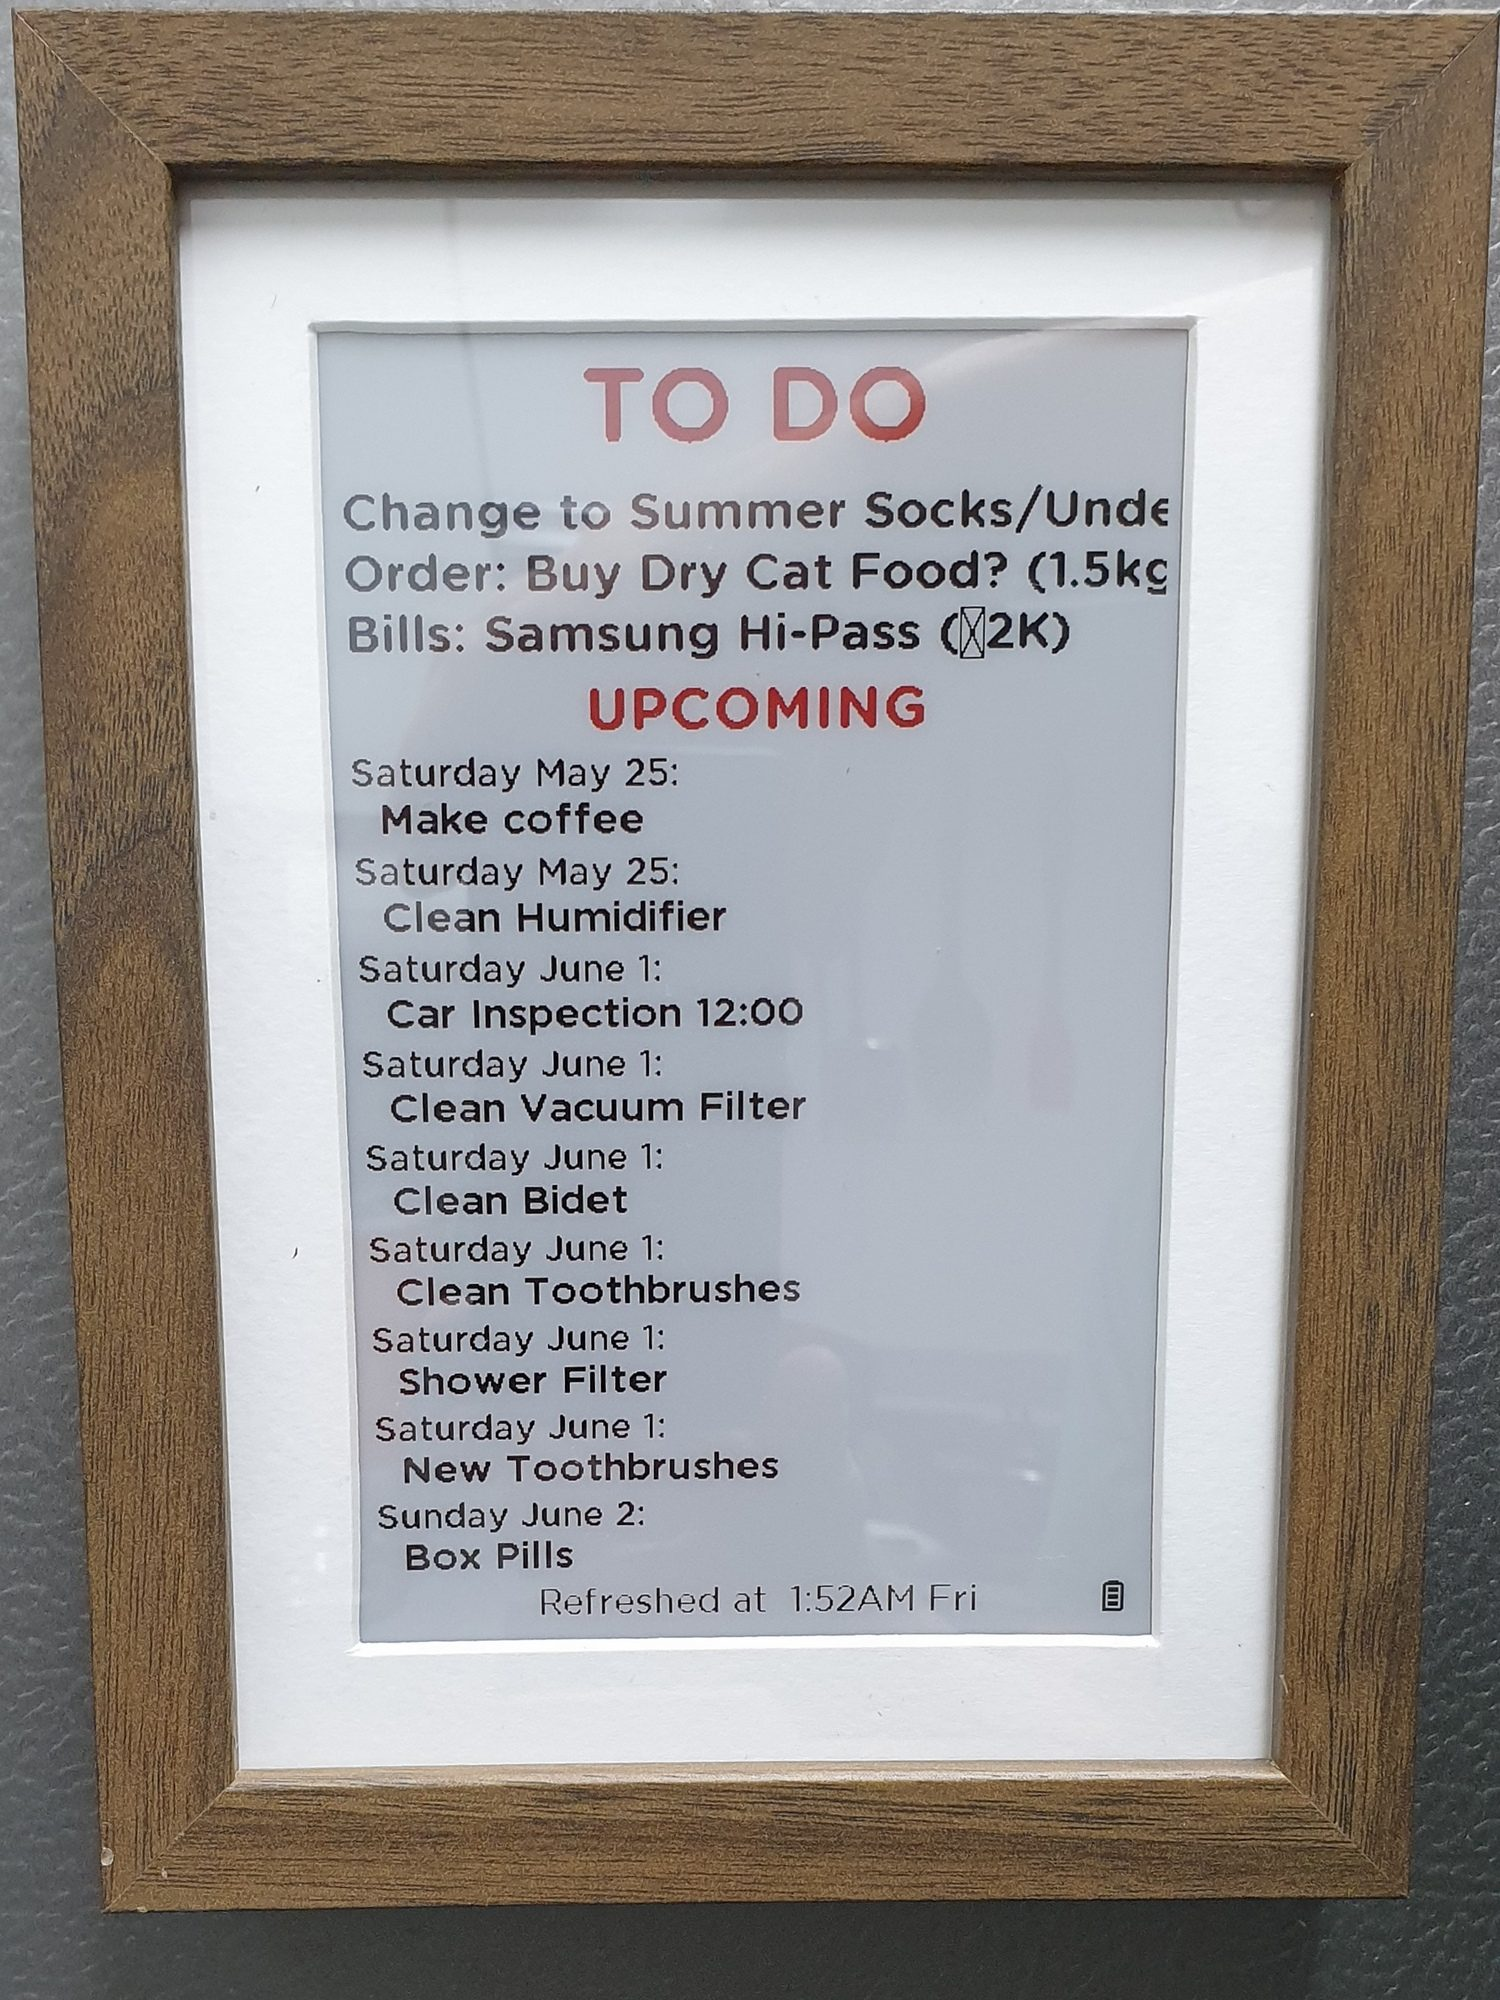
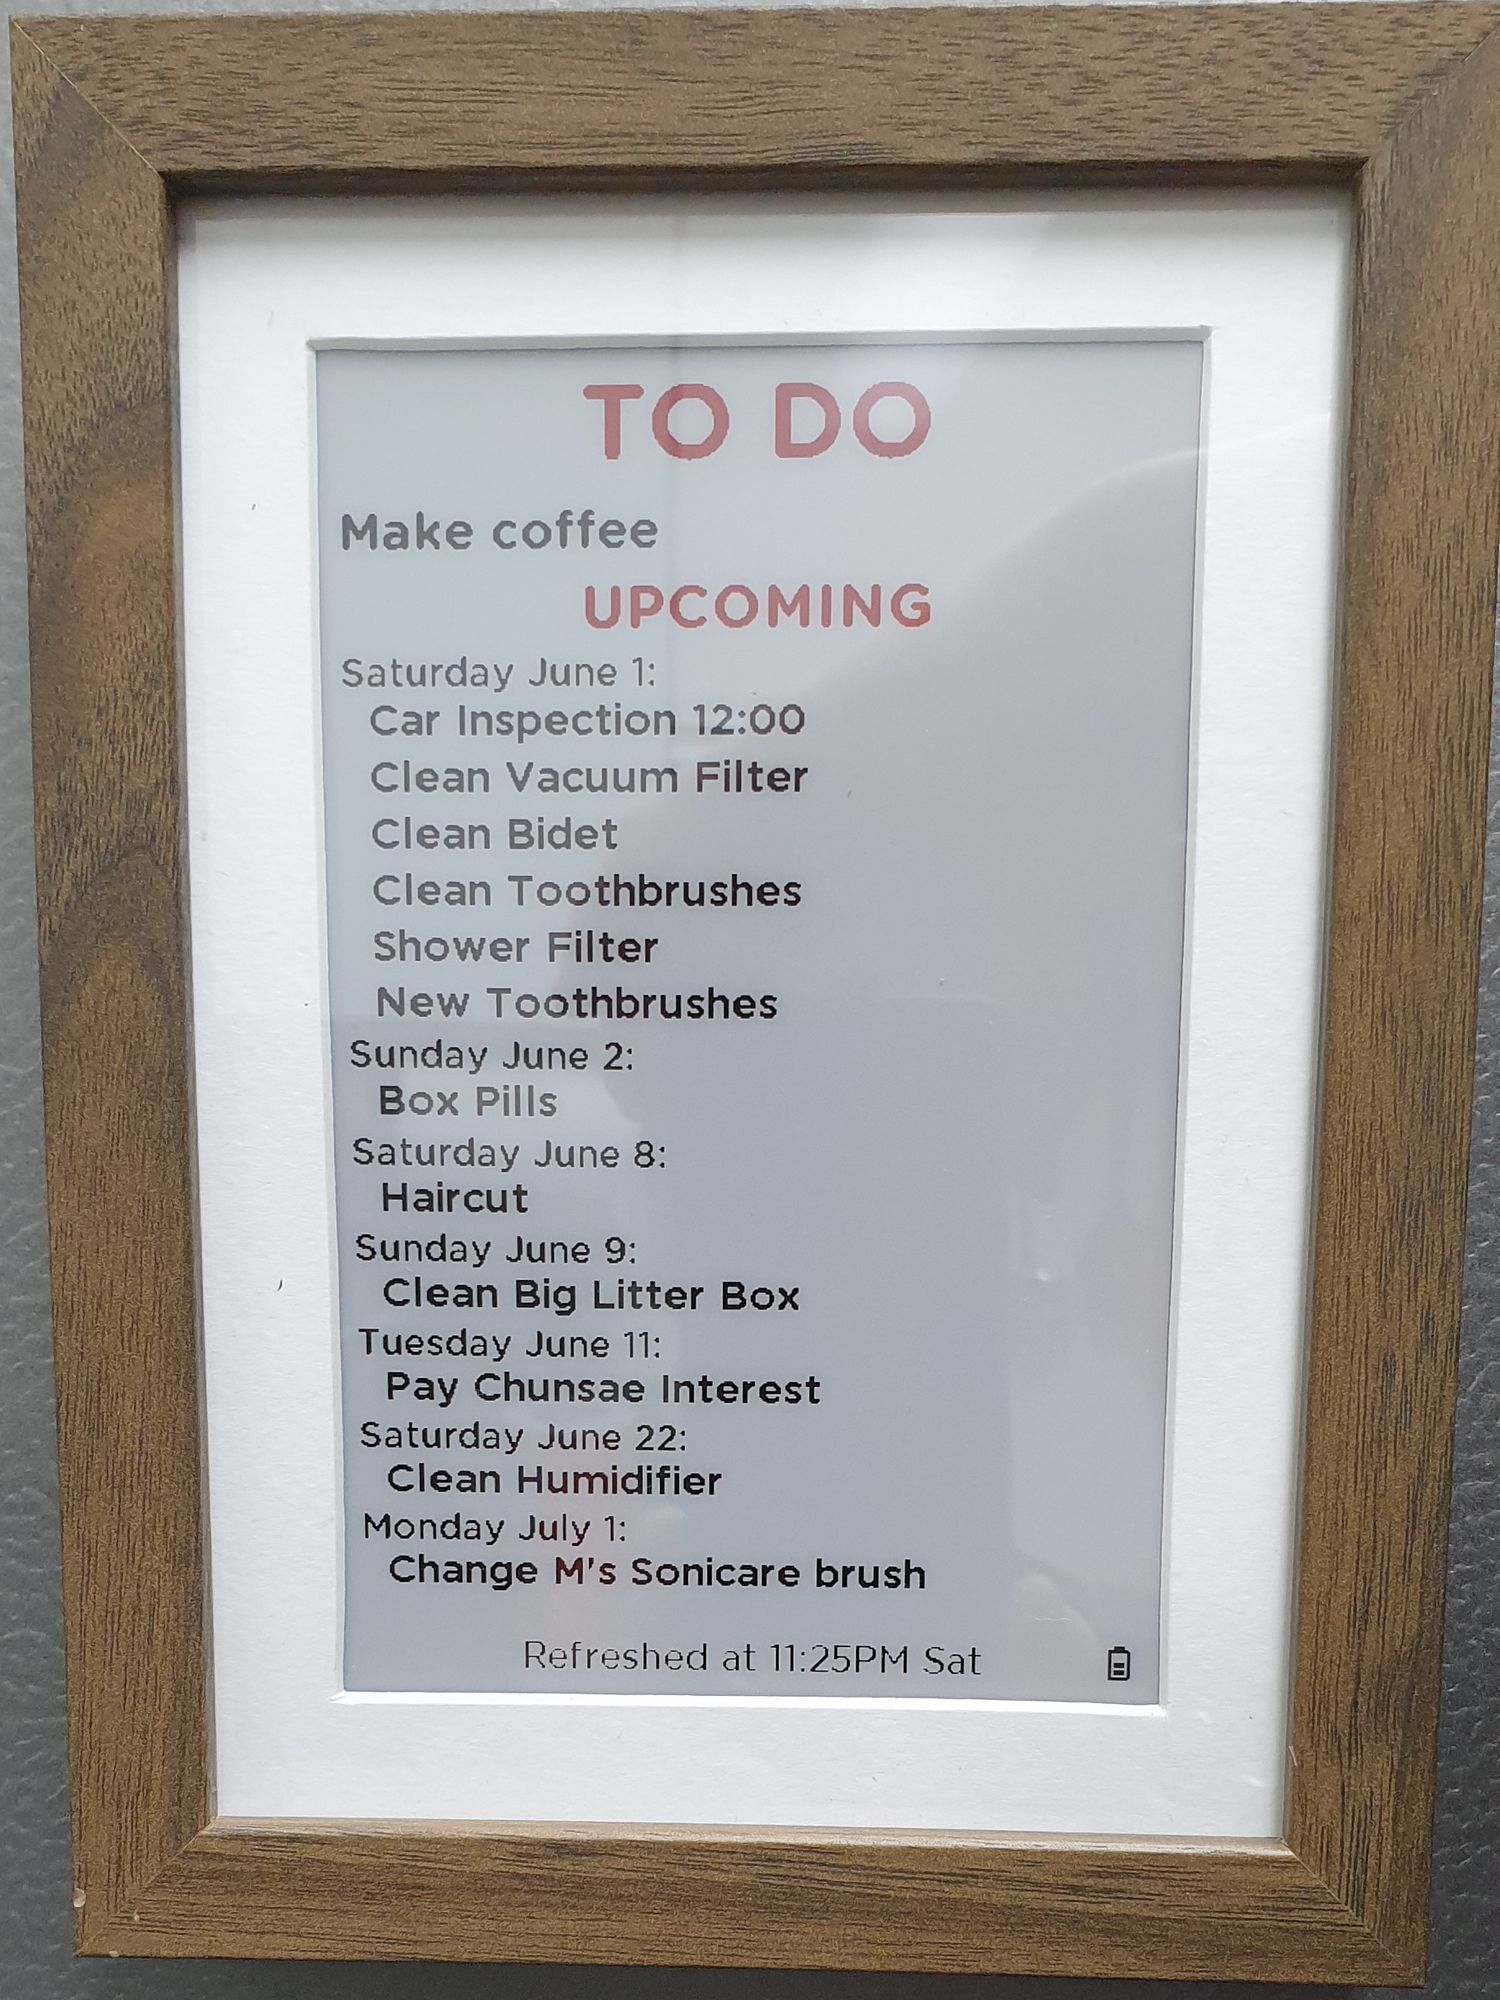
Combine tasks under one date

diff --git a/README.md b/README.md
@@ -38,6 +38,10 @@ Unlike the WeatherBoard code, you will need to carefully edit certain sections o
 
 Certain events like holidays (which are pulled from a calendar), I wish only to appear on the top TO DO and never in UPCOMING, while other things will appear in UPCOMING but never in TO DO.  Some things are pulled from certain to do lists and you may wish the board to indicate which list it's from (ie. "Check Oil" on the "Car Tasks" list may appear as "Car: Check Oil" on the board).
 
+Please note my preferred `time_pattern` is every 3 minutes.  It takes 2 runs to completely populate all the sensors.  That means 6 minutes total.  Keep that in mind if you decide to increase the value.  Also, although it's not too intensive on the machine, it certainly isn't no work at all, so if your machine is weak (like a Pi), you may wish to increase the time.
+
+Also, keep in mind that Home Assistant reloads Google Tasks and Calendar data every 15 minutes so in theory it could take 29 minutes for items to sync to HA. You can reload them manually with the service `homeassistant.reload_config_entry` if needed.
+
 [`HomeAssistant_template_tasks.yaml`](HomeAssistant_template_tasks.yaml)
 
 #### Waketimes
@@ -79,7 +83,7 @@ Because the YAML has plenty of notes scattered throughout it, I won't waste spac
 
 A note here that the list is somewhat dynamic.  As more TO DO tasks are displayed, the UPCOMING list is pushed further down and will not attempt to display items that do not fit.  If no TO DO items are available, it will have a default "Nothing today!" message that you may wish to edit.  Again, there are plenty of notes scattered throughout the YAML so check it carefully.
 
-Please note that as you can see in my above example, I have an unknown character appear. I live in Korea and that should be a Korean Won symbol (₩).  It is not displayed correctly because it does not exist in the font.  There's nothing to do about this without changing the font to one which supports this character.  It's ugly but shouldn't happen often.  ESPHome is also limited by Pillow on how many glyphs may be included (undocumented but I believe it's 255) so there's almost no chance of using Asian languages here.
+Please note that you may see a missing glyph (always a black box ■) on your board.  The solution is quite simple.  Add the character to the glyphs lists in the ESPHome YAML.  If you see an unknown character glyph (in the Gotham-Round fonts similar as ☒) instead, it means the font is missing that character. The solution is to either change the font, avoid using the character, or ignore it. For example, I have defined the South Korean Won currency symbol (₩) even though it is not present in the font. I'd rather see the ☒ instead of ■. Please note that I'm pretty sure Pillow (the element of ESPHome uses to encode characters into pictures) limits the number of glyphs. I believe it's 255.
 
 [`ESPHome_eink-tasksboard.yaml`](ESPHome_eink-tasksboard.yaml)
 
@@ -97,6 +101,7 @@ Please note that as you can see in my above example, I have an unknown character
 - 1260110 Rechargeable Lithium Polymer Battery (3.7V 10000mAh): https://www.aliexpress.com/item/1005006162769300.html
 - 3.7V Battery LED Digital Voltmeter (1S 3.7V): https://www.aliexpress.com/item/32848280207.html
 - TP4056 Battery charger (USB C): https://www.aliexpress.com/item/32836046028.html
+- Masking tape
 
 ## Waveshare E-Paper ESP32 Driver Board
 
